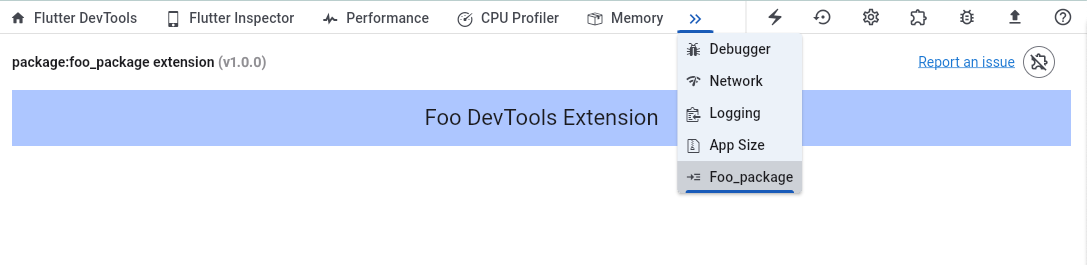
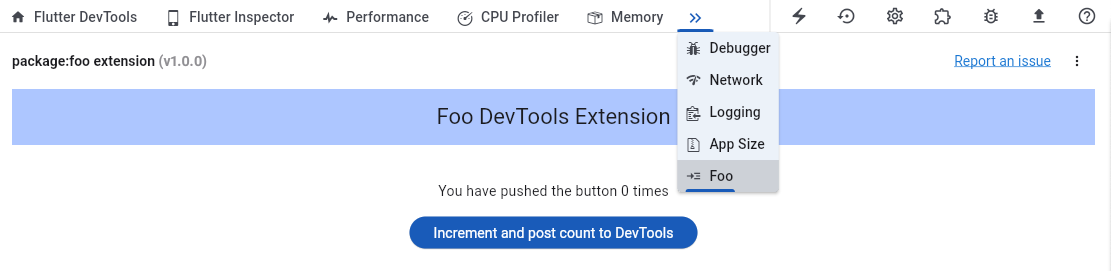
update readme

diff --git a/packages/devtools_extensions/README.md b/packages/devtools_extensions/README.md
@@ -29,7 +29,7 @@ extensions in an iFrame to display them dynamically in DevTools.
 
 To add an extension to your Dart package, add a top-level `extension` directory:
 ```
-foo_package
+foo
   extension/
   lib/
   ...
@@ -46,7 +46,7 @@ extension
 The `config.yaml` file contains metadata that DevTools needs to load the extension.
 
 ```yaml
-name: foo_package
+name: foo
 issueTracker: <link_to_your_issue_tracker.com>
 version: 0.0.1
 materialIconCodePoint: '0xe0b1'
@@ -84,26 +84,26 @@ in order for DevTools to load it. To keep the size of your pub package small, we
 you develop your DevTools extension outside of your pub package. Here is the recommended package structure:
 
 ```
-foo_package/  # formerly the repository root of your pub package
+foo/  # formerly the repository root of your pub package
   packages/
-    foo_package/  # your pub package
+    foo/  # your pub package
       extension/
         devtools/
           build/
-            ...  # pre-compiled output of foo_package_devtools_extension
+            ...  # pre-compiled output of foo_devtools_extension
           config.yaml
-    foo_package_devtools_extension/  # source code for your extension
+    foo_devtools_extension/  # source code for your extension
 ```
 
 ### Create the extension web app
 
 From the directory where you want your extension source code to live, run the following command,
-replacing `foo_package_devtools_extension` with `<your_package_name>_devtools_extension``:
+replacing `foo_devtools_extension` with `<your_package_name>_devtools_extension``:
 ```sh
-flutter create --template app --platforms web foo_package_devtools_extension
+flutter create --template app --platforms web foo_devtools_extension
 ```
 
-In `foo_package_devtools_extension/pubspec.yaml`, add a dependency on `devtools_extensions`:
+In `foo_devtools_extension/pubspec.yaml`, add a dependency on `devtools_extensions`:
 ```yaml
 devtools_extensions: ^0.0.9
 ```
@@ -159,7 +159,7 @@ file in VS code:
         ...
         {
             "name": "foo_devtools_extension + simulated environment",
-            "program": "foo_package/extension/foo_devtools_extension/lib/main.dart",
+            "program": "foo/extension/foo_devtools_extension/lib/main.dart",
             "request": "launch",
             "type": "dart",
             "args": [
